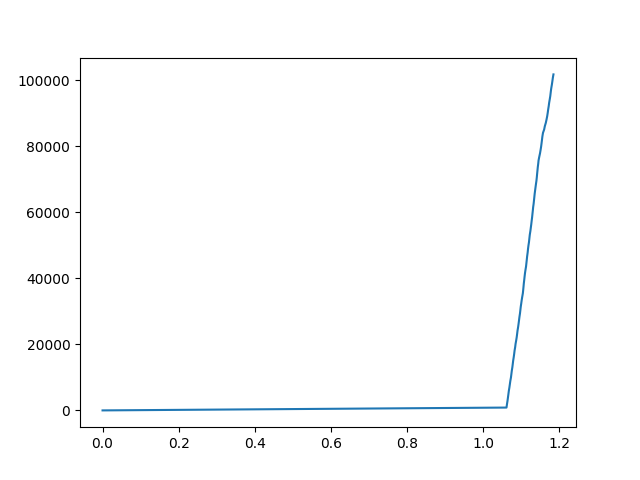
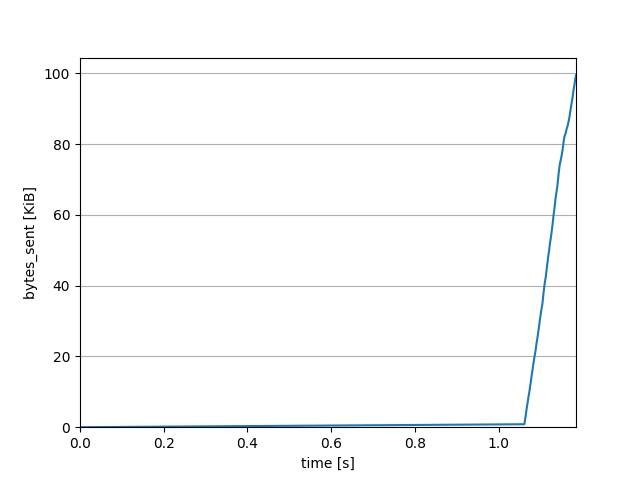
improve visualization of output graphs

diff --git a/DataOutput.py b/DataOutput.py
@@ -108,10 +108,33 @@ class DataOutput:
                 file_path = os.path.join(os.getcwd(), short_path)
                 Path(file_path).mkdir(parents=True, exist_ok=True)
                 
-                plt.plot(time_stamps, self.lists[l])
-                # unit = self.__get_unit()
-                # plt.gca().yaxis.set_major_formatter(mticker.FormatStrFormatter(f'%.0f {unit}'))
-                # plt.ylabel(l)
+                plt.grid(True, 'both', 'y')
+                plt.xlabel("time [s]")
+                
+                if l == "bytes_recv" or l == "bytes_sent":
+                    # get the unit of the maximum value and use it for all values
+                    values = self.lists[l]
+                    unit = self.__get_unit(max(values))
+                    
+                    while max(values) > 1024:
+                        for v in range(len(values)):
+                            values[v] = values[v] / 1024
+                    
+                    plt.ylabel(f"{l} [{unit}]")
+                    
+                    plt.xlim([0, max(time_stamps)])
+                    plt.ylim([0, max(values) + 0.05 * max(values)])
+                    
+                    plt.plot(time_stamps, values)
+                elif l == "cpu_percent" or l == "ram_percent":
+                    plt.ylabel(f"{l} [%]")
+                    
+                    plt.xlim([0, max(time_stamps)])
+                    plt.ylim([0, 100])
+                    
+                    plt.plot(time_stamps, self.lists[l])
+                else:
+                    plt.plot(time_stamps, self.lists[l])
                 
                 plt.savefig(os.path.join(file_path, l))
                 plt.clf()
@@ -127,6 +150,16 @@ class DataOutput:
     def __reset_lists(self):
         for l in self.lists:
             self.lists[l] = []
+            
+    def __get_unit(self, bytes):
+        for unit in ['', 'K', 'M', 'G', 'T', 'P']:
+            if bytes < 1024:
+                if unit == '':
+                    return "B"
+                else:
+                    return f"{unit}iB"
+            bytes = bytes / 1024
+        print_err("Number of bytes is too large!")
 
     def __get_time_stamp(self, entry):
         return self.data["data"][entry]["time"]
